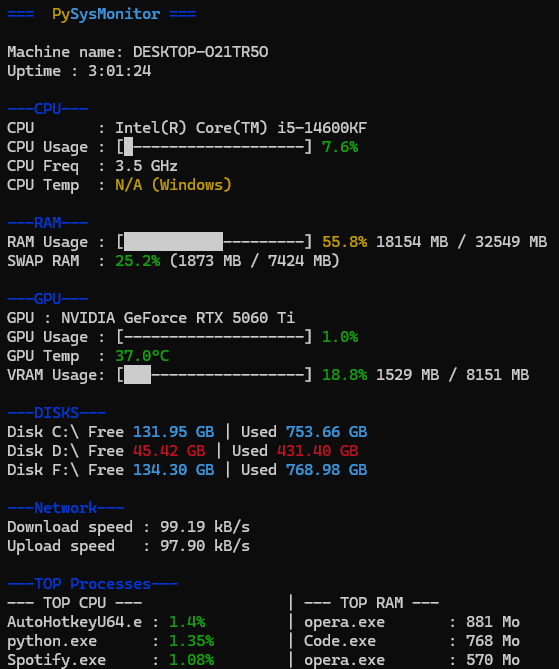
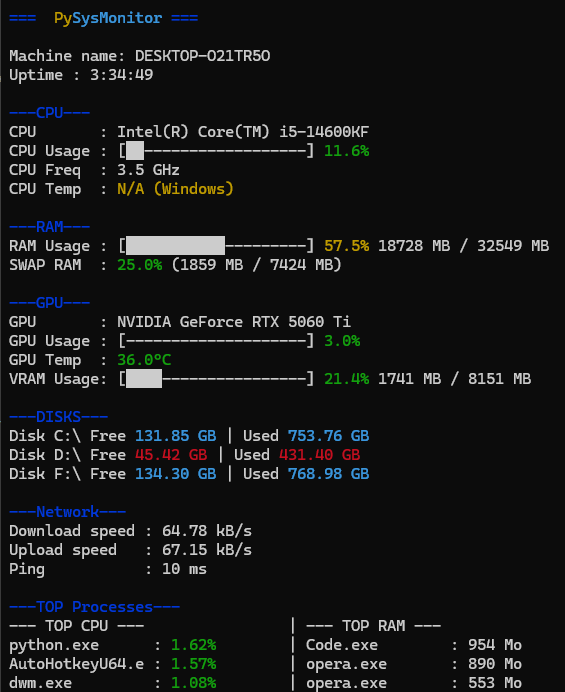
feat: Add network ping and fix some UI bugs

diff --git a/main.py b/main.py
@@ -1,6 +1,7 @@
 import psutil
 import GPUtil
 import os
+import subprocess
 import platform
 import cpuinfo
 import time
@@ -14,6 +15,24 @@ last_sent = psutil.net_io_counters().bytes_sent
 get_os = platform.system()
 cores = psutil.cpu_count()
 cpu_name = cpuinfo.get_cpu_info()["brand_raw"]
+
+def ping():
+    if get_os == 'Windows':
+        ping_res = subprocess.run(["ping", "-n", "1", "8.8.8.8"], capture_output=True, text=True, encoding="cp850")
+    elif get_os == 'Linux':
+        ping_res = subprocess.run(["ping", "-c", "1", "8.8.8.8"], capture_output=True, text=True)
+    else:
+        return "N/A"
+
+    txt = ping_res.stdout
+
+    for line in txt.splitlines():
+        # Fr/En
+        if "Moyenne =" in line or "Average =" in line:
+            fig = line.split("=")[-1].replace("ms", "").strip()
+            return fig
+
+    return "Error"
 
 # Color functions
 def color_use(value):
@@ -60,7 +79,7 @@ def get_cpu_temp():
         measures = next(iter(data.values()))
         return measures[0].current
     else:
-        return None
+        return "N/A"
 
 # Processes fuction
 def get_top_proc():
@@ -105,6 +124,7 @@ def status():
     
     print('')
     print(Fore.BLUE + "---CPU---" + Fore.RESET)
+
     # CPU
     print(f"CPU       : {cpu_name}")
 
@@ -135,13 +155,14 @@ def status():
 
     print('')
     print(Fore.BLUE + "---GPU---" + Fore.RESET)
+
     # GPU
     gpus = GPUtil.getGPUs()
     if not gpus:
         print(Fore.RED + "GPU: No GPU detected")
     else:
         for gpu in gpus:
-            print(f"GPU : {gpu.name}")
+            print(f"GPU       : {gpu.name}")
             gpu_use = gpu.load*100
             gpu_bar = make_bar(gpu_use)
             print(f"GPU Usage : {gpu_bar} {color_use(gpu_use)}")
@@ -153,6 +174,7 @@ def status():
 
     print('')
     print(Fore.BLUE + "---DISKS---" + Fore.RESET)
+
     # Disk
     partitions = psutil.disk_partitions()
     for p in partitions:
@@ -170,6 +192,7 @@ def status():
 
     print('')
     print(Fore.BLUE + "---Network---" + Fore.RESET)
+
     # Network
     actual = psutil.net_io_counters()
     spd_dwnld = actual.bytes_recv - last_recv
@@ -178,6 +201,10 @@ def status():
     last_sent = actual.bytes_sent
     print(f"Download speed : {spd_dwnld / (1024):.2f} kB/s")
     print(f"Upload speed   : {spd_upld / (1024):.2f} kB/s")
+    ping_net = ping()
+    print(f"Ping           : {ping_net} ms")
+
+
 
     print("")
     print(Fore.BLUE + "---TOP Processes---" + Fore.RESET)

diff --git a/README.md b/README.md
@@ -11,7 +11,7 @@ A lightweight, real-time system resource monitor built with Python. This tool pr
 * **Disk Analysis**: Dynamic monitoring of all detected partitions (C:, D:, F:, etc.) with free and used space and dynamic color (Cyan/Red)
 * **Network Traffic**: Live calculation of Download and Upload speeds in kB/s.
 * **Process Tracking**: Displaying the "Top 3" most resource-hungry applications.
-* **Advanced Hardware Data**: CPU per-core temperatures. ***(Only on Linux because Windows won't let python libraries access to these infos)***
+* **Advanced Hardware Data**: CPU temperature. ***(Only on Linux because Windows won't let python libraries access to these infos)***
 
 ## 🛠 Installation
 
@@ -22,7 +22,7 @@ A lightweight, real-time system resource monitor built with Python. This tool pr
 
 2. **Install the required dependencies**:
     ```bash
-    pip install psutil gputil colorama distutils wmi
+    pip install psutil gputil colorama distutils subprocess cpuinfo
     ```
 
 ## 🚀 How to Use
